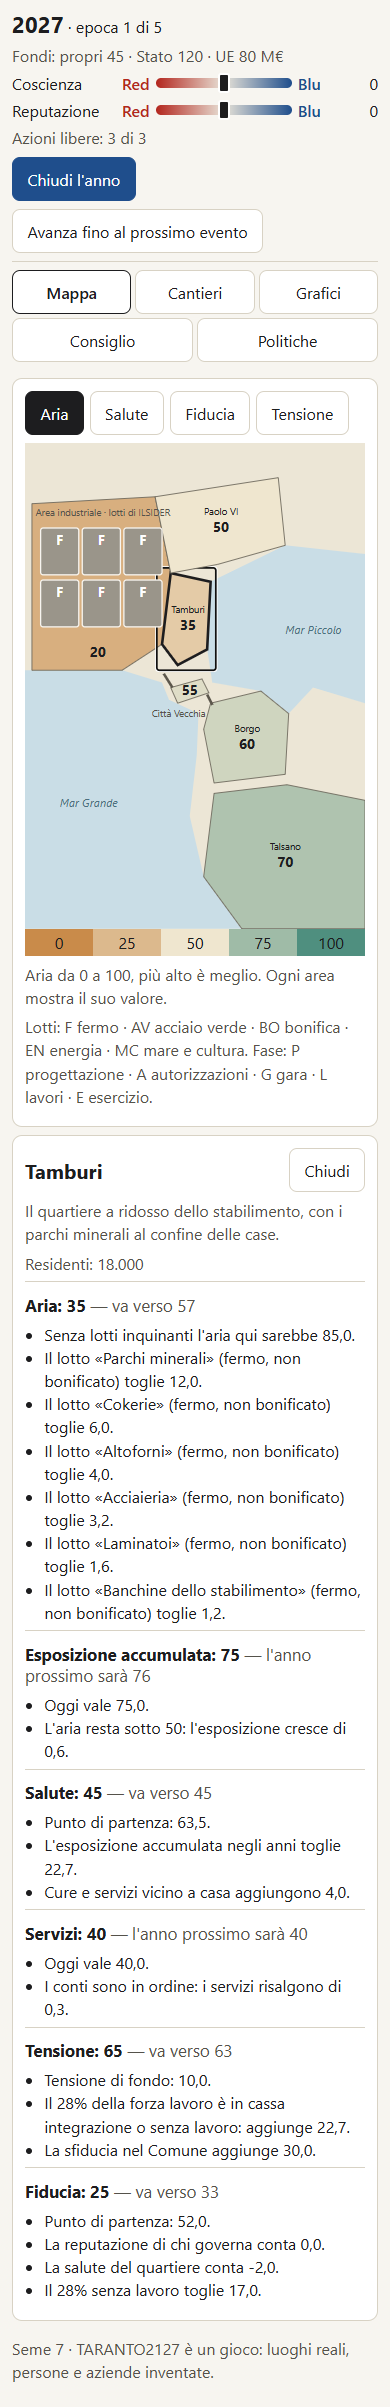
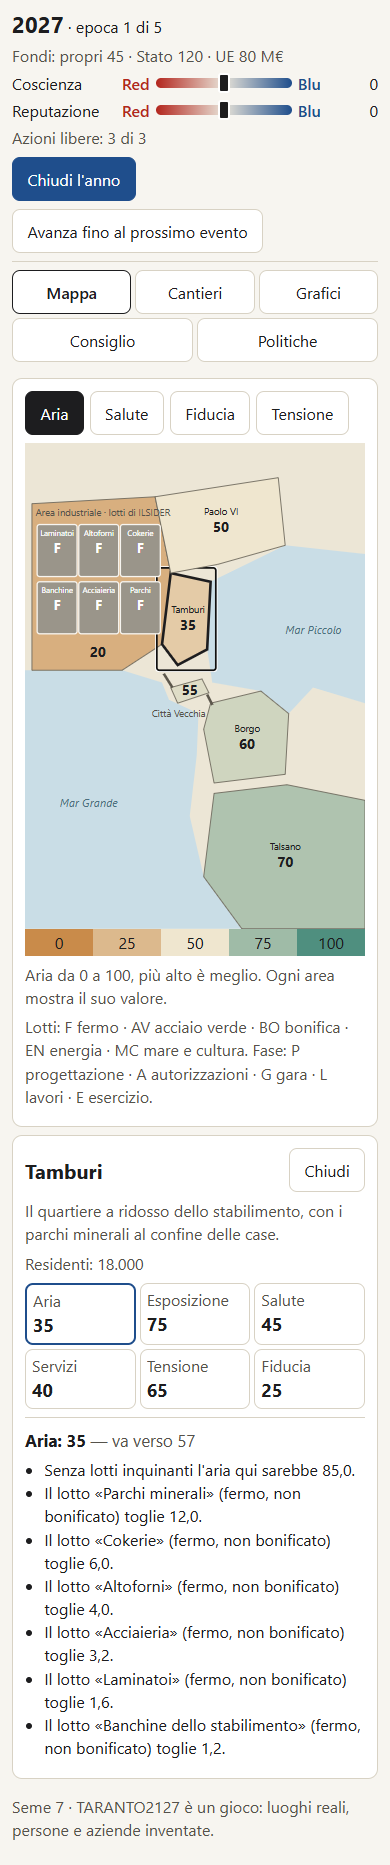
T09b: Consiglio con effetto stimato dal motore, nomi dei lotti, scheda del quartiere compatta

diff --git a/packages/agents/src/council/advise.ts b/packages/agents/src/council/advise.ts
@@ -5,12 +5,17 @@
  */
 import {
   ActionError,
+  EffectError,
   applyAction,
+  applyDeltas,
   averageTrust,
+  explainDistrict,
   joblessShare,
   readNumber,
   type Action,
   type Councillor,
+  type DistrictId,
+  type EffectSet,
   type GameState,
   type TurnRules,
 } from '@taranto2127/sim';
@@ -75,23 +80,81 @@ export function actionConcerns(action: Action, district: string, rules: TurnRule
   }
 }
 
-/**
- * Di quanto un'azione migliora proprio la grandezza in allarme, secondo i suoi
- * effetti dichiarati: positivo se la sposta nella direzione giusta, 0 se non la tocca.
- */
-export function alarmRelief(action: Action, alarm: CouncilAlarm, rules: TurnRules): number {
-  const sum = (effects: { deltas: { target: string; amount: number }[] }[]) =>
-    effects.flatMap((e) => e.deltas).filter((d) => d.target === alarm.target).reduce((a, d) => a + d.amount, 0);
+/** Effetti dichiarati di un'azione: all'entrata in esercizio (o subito) e ogni anno. */
+function declaredEffects(action: Action, rules: TurnRules): { once: EffectSet; everyYear: EffectSet } | undefined {
   const project = (id: string | undefined) => {
     const def = id === undefined ? undefined : rules.projects[id];
-    return def === undefined ? 0 : sum([def.operatingEffects.once, def.operatingEffects.everyYear]);
+    return def === undefined ? undefined : def.operatingEffects;
   };
-  let amount = 0;
-  if (action.kind === 'start-project') amount = project(action.definitionId);
-  else if (action.kind === 'convert-lot' && action.path !== 'idle') amount = project(rules.lotConversion[action.path]);
-  else if (action.kind === 'set-policy' && action.active) {
+  if (action.kind === 'start-project') return project(action.definitionId);
+  if (action.kind === 'convert-lot' && action.path !== 'idle') return project(rules.lotConversion[action.path]);
+  if (action.kind === 'set-policy' && action.active) {
     const policy = rules.policies[action.policyId];
-    amount = policy === undefined ? 0 : sum([policy.everyYear]);
+    return policy === undefined ? undefined : { once: { deltas: [] }, everyYear: policy.everyYear };
+  }
+  return undefined;
+}
+
+/** Grandezze che il motore porta ogni anno verso un equilibrio: un effetto una tantum su di loro svanisce. */
+const EQUILIBRIUM: Record<string, { share: (rules: TurnRules) => number }> = {
+  airQuality: { share: (r) => r.city.air.approachShare },
+  health: { share: (r) => r.city.health.approachShare },
+  tension: { share: (r) => r.city.tension.approachShare },
+  trust: { share: (r) => r.city.trust.approachShare },
+};
+
+/**
+ * La città dopo che l'azione ha fatto il suo effetto a regime: il lotto
+ * trasformato e in esercizio, gli effetti "una volta" applicati. Serve solo a
+ * stimare dove andrà l'equilibrio; non è uno stato di gioco.
+ */
+function settledAfter(state: GameState, action: Action, effects: { once: EffectSet } | undefined): GameState {
+  let after = structuredClone(state);
+  if (action.kind === 'convert-lot' && action.path !== 'idle') {
+    const lot = after.plantLots.find((l) => l.id === action.lotId);
+    if (lot !== undefined) {
+      lot.path = action.path;
+      lot.progress = 1;
+      if (action.path === 'remediation') lot.remediated = true;
+      for (const p of after.projects) if (p.lotId === lot.id) p.phase = 'cancelled';
+    }
+  }
+  if (effects !== undefined) {
+    try {
+      after = applyDeltas(after, effects.once.deltas);
+    } catch (error) {
+      if (!(error instanceof EffectError)) throw error;
+    }
+  }
+  return after;
+}
+
+/**
+ * Di quanto un'azione migliora la grandezza in allarme, secondo il motore:
+ * positivo se la sposta nella direzione giusta, 0 se non la tocca.
+ *
+ * Per le grandezze di quartiere che tendono a un equilibrio (aria, salute,
+ * tensione, fiducia) conta lo spostamento dell'equilibrio stimato con
+ * explainDistrict, più lo spostamento a regime degli effetti annui; un effetto
+ * una tantum, che il motore riassorbe, non conta. Per tutte le altre grandezze
+ * (rischio allagamenti, esposizione, fondi, …) contano gli effetti dichiarati.
+ */
+export function alarmRelief(action: Action, alarm: CouncilAlarm, rules: TurnRules, state?: GameState): number {
+  const effects = declaredEffects(action, rules);
+  const onTarget = (set: EffectSet | undefined) =>
+    (set?.deltas ?? []).filter((d) => d.target === alarm.target).reduce((a, d) => a + d.amount, 0);
+  const [root, district, quantity] = alarm.target.split('.');
+  const equilibrium = root === 'districts' && quantity !== undefined ? EQUILIBRIUM[quantity] : undefined;
+  let amount: number;
+  if (equilibrium !== undefined && state !== undefined && district !== undefined) {
+    const targetOf = (s: GameState) =>
+      explainDistrict(s, rules, district as DistrictId).find((q) => q.quantity === quantity)?.target ?? 0;
+    const shift = targetOf(settledAfter(state, action, effects)) - targetOf(state);
+    // Un effetto annuo costante su una grandezza che si avvicina all'equilibrio di una quota "share" la sposta di effetto/share.
+    const yearly = onTarget(effects?.everyYear) / Math.max(equilibrium.share(rules), 1e-9);
+    amount = shift + yearly;
+  } else {
+    amount = onTarget(effects?.once) + onTarget(effects?.everyYear);
   }
   // Allarme "troppo alto" (>): serve un calo; "troppo basso" (<): serve un aumento.
   return alarm.comparator === '>' ? -amount : amount;
@@ -174,7 +237,7 @@ function adviseOne(
   // l'ordine dei lotti e delle opere vale a parità.
   if (urgent) {
     const relief = all
-      .map((c, i) => ({ c, i, r: alarmRelief(c.action, vision.alarm, rules) }))
+      .map((c, i) => ({ c, i, r: alarmRelief(c.action, vision.alarm, rules, state) }))
       .filter((x) => x.r > 0)
       .sort((a, b) => b.r - a.r || a.i - b.i);
     const best = relief[0];

diff --git a/packages/content/src/council.test.ts b/packages/content/src/council.test.ts
@@ -1,4 +1,4 @@
-import { actionConcerns, adviseCouncil, type CouncilAdvice } from '@taranto2127/agents';
+import { actionConcerns, adviseCouncil, alarmRelief, type CouncilAdvice } from '@taranto2127/agents';
 import { DISTRICT_IDS, applyAction, createInitialState, type Action, type GameState } from '@taranto2127/sim';
 import { describe, expect, it } from 'vitest';
 import { loadContent } from './load.js';
@@ -57,11 +57,29 @@ describe('il Consiglio', () => {
     expect(checked).toBeGreaterThan(100);
   });
 
-  it('salute e ambiente, con l’aria dei Tamburi sotto guardia, chiede con urgenza un’opera che migliora quell’aria', () => {
+  it('salute e ambiente, con l’aria dei Tamburi sotto guardia, propone di bonificare il lotto che pesa di più su quell’aria', () => {
     const health = advise(initial()).find((a) => a.vision === 'health-environment')!;
     expect(health.urgent).toBe(true);
-    expect(health.action).toMatchObject({ kind: 'start-project', definitionId: 'fascia-verde-tamburi' });
+    expect(health.action).toMatchObject({ kind: 'convert-lot', lotId: 'lotto-parchi-minerali', path: 'remediation' });
     expect(health.reason).toContain('Tamburi');
+    // Il lotto proposto è quello con il peso più alto sull'aria dei Tamburi.
+    const weights = rules.city.air.lotWeights;
+    const heaviest = Object.keys(weights).sort((a, b) => (weights[b]!.tamburi ?? 0) - (weights[a]!.tamburi ?? 0))[0];
+    expect(heaviest).toBe('lotto-parchi-minerali');
+  });
+
+  it('l’effetto stimato dal motore: la bonifica dei parchi minerali batte la fascia verde sull’aria dei Tamburi', () => {
+    const alarm = council.visions['health-environment'].alarm;
+    const state = initial();
+    const remediation = alarmRelief({ kind: 'convert-lot', lotId: 'lotto-parchi-minerali', path: 'remediation' }, alarm, rules, state);
+    const greenBelt = alarmRelief({ kind: 'start-project', definitionId: 'fascia-verde-tamburi' }, alarm, rules, state);
+    // Bonificare toglie la pressione del lotto: l'equilibrio dell'aria sale di peso × pressione.
+    expect(remediation).toBeCloseTo(rules.city.air.lotWeights['lotto-parchi-minerali']!.tamburi! * rules.city.air.pressures.idleContaminated, 9);
+    // La fascia verde dichiara +3 una volta sola: il motore lo riassorbe, l'equilibrio non si sposta.
+    expect(greenBelt).toBeCloseTo(0, 9);
+    expect(remediation).toBeGreaterThan(greenBelt);
+    // Senza stato si torna agli effetti dichiarati, e lì la fascia verde sembrerebbe migliore.
+    expect(alarmRelief({ kind: 'start-project', definitionId: 'fascia-verde-tamburi' }, alarm, rules)).toBe(3);
   });
 
   it('con l’allarme mareggiate propone le difese costiere, prima del lotto delle banchine', () => {
@@ -78,7 +96,7 @@ describe('il Consiglio', () => {
   it('ogni visione propone qualcosa di suo all’inizio della partita, e i lotti proposti sono diversi', () => {
     const byVision = Object.fromEntries(advise(initial()).map((a) => [a.vision, a.action]));
     expect(byVision['work-industry']).toMatchObject({ kind: 'convert-lot', lotId: 'lotto-acciaieria', path: 'green-steel' });
-    expect(byVision['health-environment']).toMatchObject({ kind: 'start-project', definitionId: 'fascia-verde-tamburi' });
+    expect(byVision['health-environment']).toMatchObject({ kind: 'convert-lot', lotId: 'lotto-parchi-minerali', path: 'remediation' });
     expect(byVision['sea-culture']).toMatchObject({ kind: 'start-project', definitionId: 'difese-costiere' });
     expect(byVision['public-accounts']).toMatchObject({ kind: 'convert-lot', lotId: 'lotto-laminatoi', path: 'energy' });
     expect(byVision['youth-future']).toMatchObject({ kind: 'start-project', definitionId: 'centro-ricerca-mare' });

diff --git a/apps/game/src/cards.tsx b/apps/game/src/cards.tsx
@@ -5,6 +5,7 @@ import {
   BUILD_PHASES,
   averageTrust,
   explainDistrict,
+  type ExplainedQuantity,
   yearOfTurn,
   type Action,
   type ActivePath,
@@ -64,10 +65,25 @@ export function ConfirmSheet(props: { title: string; lines: string[]; onConfirm:
 
 // ---------- Quartiere ----------
 
-export function DistrictCard({ state, prev, id, onClose }: { state: GameState; prev: GameState | undefined; id: DistrictId; onClose: () => void }) {
+export function DistrictCard({
+  state,
+  prev,
+  id,
+  initial = 'airQuality',
+  onClose,
+}: {
+  state: GameState;
+  prev: GameState | undefined;
+  id: DistrictId;
+  /** Indicatore di cui mostrare per primo i fattori: quello scelto sulla mappa. */
+  initial?: ExplainedQuantity;
+  onClose: () => void;
+}) {
   const texts = content.explanations;
   const d = state.districts[id];
   const explanation = explainDistrict(state, content.rules, id);
+  const [open, setOpen] = useState<ExplainedQuantity>(initial);
+  const shown = explanation.filter((q) => q.quantity === open);
   return (
     <section className="card" data-testid="scheda-quartiere">
       <header className="card-head">
@@ -76,8 +92,26 @@ export function DistrictCard({ state, prev, id, onClose }: { state: GameState; p
       </header>
       <p className="note">{content.texts.districts[id]?.descrizione}</p>
       <p className="note">Residenti: {fmt(d.population.young + d.population.adult + d.population.elder)}</p>
-      {explanation.map((q) => (
-        <div key={q.quantity} className="quantity">
+      <div className="values" role="tablist" aria-label="I sei indicatori del quartiere" data-testid="valori-quartiere">
+        {explanation.map((q) => (
+          <button
+            key={q.quantity}
+            type="button"
+            role="tab"
+            aria-selected={q.quantity === open}
+            className={q.quantity === open ? 'value on' : 'value'}
+            title={texts.quantities[q.quantity]}
+            onClick={() => setOpen(q.quantity)}
+          >
+            <span className="value-name">{(texts.quantities[q.quantity] ?? q.quantity).split(' ')[0]}</span>
+            <span className="value-number">
+              {Math.round(q.current)} {arrow(prev?.districts[id][q.quantity], q.current)}
+            </span>
+          </button>
+        ))}
+      </div>
+      {shown.map((q) => (
+        <div key={q.quantity} className="quantity" data-testid="fattori">
           <h3>
             {texts.quantities[q.quantity]}: {Math.round(q.current)} {arrow(prev?.districts[id][q.quantity], q.current)}
             <span className="toward"> — {fill(texts.toward[q.kind] ?? '', { arrivo: String(Math.round(q.target)) })}</span>

diff --git a/apps/game/src/map.tsx b/apps/game/src/map.tsx
@@ -51,15 +51,18 @@ const SEAS = {
 
 /** Lotti dentro l'area industriale, tre colonne per due righe: i parchi minerali verso i Tamburi, le banchine verso il mare. */
 const LOTS: { id: string; x: number; y: number }[] = [
-  { id: 'lotto-laminatoi', x: 18, y: 98 },
-  { id: 'lotto-altoforni', x: 66, y: 98 },
-  { id: 'lotto-cokerie', x: 114, y: 98 },
-  { id: 'lotto-banchine', x: 18, y: 158 },
-  { id: 'lotto-acciaieria', x: 66, y: 158 },
-  { id: 'lotto-parchi-minerali', x: 114, y: 158 },
+  { id: 'lotto-laminatoi', x: 14, y: 94 },
+  { id: 'lotto-altoforni', x: 62, y: 94 },
+  { id: 'lotto-cokerie', x: 110, y: 94 },
+  { id: 'lotto-banchine', x: 14, y: 160 },
+  { id: 'lotto-acciaieria', x: 62, y: 160 },
+  { id: 'lotto-parchi-minerali', x: 110, y: 160 },
 ];
-const LOT_W = 44;
-const LOT_H = 54;
+const LOT_W = 46;
+const LOT_H = 60;
+
+/** Nome abbreviato di un lotto: la prima parola del suo nome ("Parchi minerali" → "Parchi"). */
+export const lotShortName = (lotId: string): string => (content.texts.plantLots[lotId]?.nome ?? lotId).split(' ')[0]!;
 
 const PATH_STYLE: Record<ActivePath | 'idle', { fill: string; code: string }> = {
   idle: { fill: '#9a958a', code: 'F' },
@@ -148,8 +151,9 @@ export function TarantoMap({ state, indicator, selected, onSelect }: MapProps) {
             onKeyDown={(e) => (e.key === 'Enter' || e.key === ' ') && onSelect('lot', lot.id)}
           >
             <rect x={lot.x} y={lot.y} width={LOT_W} height={LOT_H} rx="3" fill={info.fill} stroke={isSelected ? '#1d1d1f' : '#f7f5f0'} strokeWidth={isSelected ? 3 : 1.5} />
-            <text x={lot.x + LOT_W / 2} y={lot.y + 20} className="lot-code">{info.code}</text>
-            <text x={lot.x + LOT_W / 2} y={lot.y + 36} className="lot-detail">{info.detail}</text>
+            <text x={lot.x + LOT_W / 2} y={lot.y + 13} className="lot-name">{lotShortName(lot.id)}</text>
+            <text x={lot.x + LOT_W / 2} y={lot.y + 33} className="lot-code">{info.code}</text>
+            <text x={lot.x + LOT_W / 2} y={lot.y + 50} className="lot-detail">{info.detail}</text>
           </g>
         );
       })}

diff --git a/apps/game/src/styles.css b/apps/game/src/styles.css
@@ -88,6 +88,7 @@ button:focus-visible, .area:focus-visible { outline: 3px solid var(--red); outli
 .area-value { font-size: 16px; font-weight: 700; text-anchor: middle; fill: var(--ink); pointer-events: none; }
 .sea-label { font-size: 13px; font-style: italic; fill: #4a6f80; }
 .small-label { font-size: 11px; fill: var(--muted); }
+.lot-name { font-size: 9px; text-anchor: middle; fill: #fff; pointer-events: none; }
 .lot-code { font-size: 15px; font-weight: 700; text-anchor: middle; fill: #fff; pointer-events: none; }
 .lot-detail { font-size: 11px; text-anchor: middle; fill: #fff; pointer-events: none; }
 .legend-scale { display: flex; }
@@ -95,6 +96,12 @@ button:focus-visible, .area:focus-visible { outline: 3px solid var(--red); outli
 .side { min-width: 0; }
 
 /* Quartiere */
+.values { display: grid; grid-template-columns: repeat(3, minmax(0, 1fr)); gap: 4px; margin: 8px 0; }
+.value { flex-direction: column; align-items: flex-start; justify-content: flex-start; padding: 4px 6px; min-height: 52px; }
+.value.on { border: 2px solid var(--blue); }
+.value-name { font-size: 1rem; color: var(--muted); overflow: hidden; text-overflow: ellipsis; white-space: nowrap; max-width: 100%; }
+.value-number { font-size: 1.15rem; font-weight: 700; }
+@media (min-width: 600px) { .values { grid-template-columns: repeat(6, minmax(0, 1fr)); } }
 .quantity { border-top: 1px solid var(--line); padding-top: 6px; margin-top: 6px; }
 .quantity ul { margin: 0.2em 0 0.4em; padding-left: 1.2em; }
 .toward { font-weight: 400; color: var(--muted); }

diff --git a/apps/game/src/ui.test.tsx b/apps/game/src/ui.test.tsx
@@ -72,6 +72,20 @@ describe('schermate', () => {
     }
   });
 
+  it('la scheda del quartiere mostra i sei valori in riga e i fattori di un solo indicatore, quello scelto sulla mappa', () => {
+    for (const initial of ['airQuality', 'health', 'trust', 'tension'] as const) {
+      const html = renderToString(<DistrictCard state={game.state} prev={game.prev} id="tamburi" initial={initial} onClose={noop} />);
+      expect(html.match(/data-testid="fattori"/g)).toHaveLength(1);
+      expect(html.match(/role="tab"/g)).toHaveLength(6);
+      expect(html).toMatch(new RegExp(`aria-selected="true"[^>]*>(<[^>]+>)*${content.explanations.quantities[initial]}`));
+    }
+  });
+
+  it('ogni lotto sulla mappa mostra il suo nome abbreviato', () => {
+    const html = renderToString(<TarantoMap state={game.state} indicator="airQuality" selected={null} onSelect={noop} />);
+    for (const name of ['Parchi', 'Cokerie', 'Altoforni', 'Acciaieria', 'Laminatoi', 'Banchine']) expect(html).toContain(`>${name}<`);
+  });
+
   it('la mappa mostra ogni quartiere e ogni lotto con il suo numero o la sua sigla', () => {
     const html = renderToString(<TarantoMap state={game.state} indicator="airQuality" selected={null} onSelect={noop} />);
     for (const id of DISTRICT_IDS) {

diff --git a/apps/game/src/App.tsx b/apps/game/src/App.tsx
@@ -179,7 +179,14 @@ export function App() {
                 <aside className="side">
                   {selected === null && <p className="panel note">Tocca un quartiere o un lotto per aprire la sua scheda.</p>}
                   {selected?.kind === 'district' && (
-                    <DistrictCard state={state} prev={game.prev} id={selected.id as DistrictId} onClose={() => setSelected(null)} />
+                    <DistrictCard
+                      key={selected.id}
+                      state={state}
+                      prev={game.prev}
+                      id={selected.id as DistrictId}
+                      initial={indicator}
+                      onClose={() => setSelected(null)}
+                    />
                   )}
                   {selected?.kind === 'lot' && <LotCard state={state} lotId={selected.id} onRequest={request} onClose={() => setSelected(null)} />}
                 </aside>
